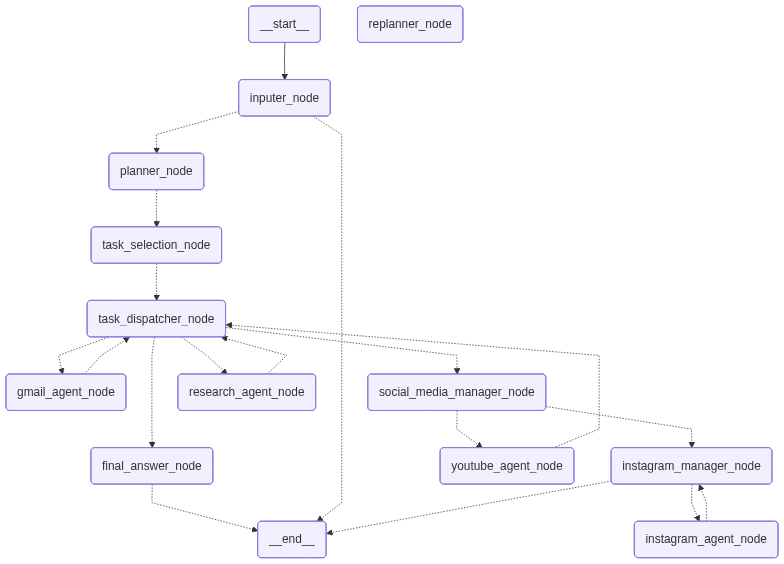
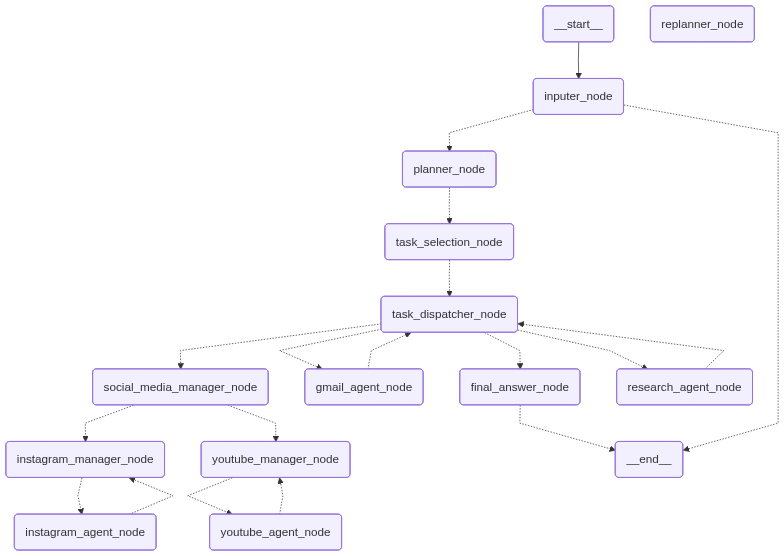
youtube tool and agent :WORKINg

diff --git a/chatagent/custom_graph.py b/chatagent/custom_graph.py
@@ -13,8 +13,9 @@ from chatagent.model.chat_agent_model import StreamChunk
 from chatagent.agents.supervisor_agent import make_supervisor_node
 from chatagent.agents.planner_agent import make_planner_node
 from chatagent.agents.social_media_manager.gmail.email_agent import gmail_agent_node
-from chatagent.agents.social_media_manager.youtube.youtube_agent import youtube_agent_node
 from chatagent.agents.social_media_manager.instagram.instagram_agent import instagram_agent_node
+# Import the new youtube agent
+from chatagent.agents.social_media_manager.youtube.youtube_agent import youtube_agent_node
 from chatagent.agents.research.research_agent import research_agent_node
 from chatagent.agents.final_node import final_answer_node
 from chatagent.node_registry import NodeRegistry
@@ -25,7 +26,6 @@ from chatagent.agents.task_selection import task_selection_node
 from chatagent.agents.task_dispatcher import task_dispatcher
 from langchain_core.runnables import RunnableConfig
 from langchain_core.prompts import ChatPromptTemplate
-from langchain_core.runnables import RunnableConfig
 from langgraph.types import Command
 from langchain_core.messages import SystemMessage, HumanMessage, AIMessage
 from typing import Literal, Optional
@@ -50,12 +50,11 @@ available_agents = {
         "Handles ALL tasks related to Gmail or Email. "
     ),
     "social_media_manager_node": (
-        "Handles ONLY Instagram-related tasks (posts, reels, insights, analytics, followers, profile, or messages). "
-        "It can handle youtube channel or youtube related tasks too"
-        "Tasks for Twitter/X, Facebook, WhatsApp, YouTube, and others are currently unsupported and must end with a clear explanation."
+        "Handles tasks related to social media platforms like Instagram and YouTube."
+        "Youtube channel details, video information, etc."
     ),
     "research_agent_node": (
-        "Handles ALL tasks related to searching or finding information from the internet. "
+        "it can only handle tasks related to searching, looking up, or finding information from the internet (e.g., LinkedIn, Google, web)."
     )
 }
 
@@ -80,6 +79,18 @@ instagram_manager_node = make_supervisor_node(
     prompt=PROMPTS.instagram_manager_node
 )
 
+# Create a new YouTube manager
+youtube_register = NodeRegistry()
+youtube_register.add("youtube_agent_node", youtube_agent_node, "agent", "Handles all tasks related to YouTube.")
+
+youtube_manager_node = make_supervisor_node(
+    llm=llm,
+    registry=youtube_register,
+    node_name="youtube_manager_node",
+    goto_end_symbol="social_media_manager_node",
+    prompt=PROMPTS.youtube_manager_node,
+)
+
 
 social_media_manager_registry = NodeRegistry()
 social_media_manager_registry.add(
@@ -88,12 +99,12 @@ social_media_manager_registry.add(
     "supervisor",
     PROMPTS.instagram_manager_node,
 )
-
+# Add the new YouTube manager to the social media supervisor
 social_media_manager_registry.add(
-    "youtube_agent_node",
-    youtube_agent_node, 
-    "agent",
-    "Handle all tasks related to fetching YouTube OR YOUTUBE Channels"
+    "youtube_manager_node",
+    youtube_manager_node,
+    "supervisor",
+    PROMPTS.youtube_manager_node,
 )
 
 
@@ -111,7 +122,6 @@ main_register.add(
     "supervisor",
     PROMPTS.social_media_manager_node,
 )
-
 main_register.add(
     "gmail_agent_node",
     gmail_agent_node,
@@ -141,11 +151,7 @@ graph_builder.add_node("social_media_manager_node", social_media_manager_node)
 graph_builder.add_node("instagram_manager_node", instagram_manager_node)
 graph_builder.add_node("instagram_agent_node", instagram_agent_node)
 graph_builder.add_node("research_agent_node", research_agent_node)
-graph_builder.add_node("youtube_agent_node", youtube_agent_node) 
+# Add the new youtube nodes
+graph_builder.add_node("youtube_manager_node", youtube_manager_node)
+graph_builder.add_node("youtube_agent_node", youtube_agent_node)
 graph_builder.add_edge(START, "inputer_node")
-
-
-# png_data = graph_builder.get_graph().draw_mermaid_png()
-# with open("graph.png", "wb") as f:
-#     f.write(png_data)
-# print("Graph saved to graph1.png")

diff --git a/chatagent/agents/social_media_manager/youtube/youtube_agent.py b/chatagent/agents/social_media_manager/youtube/youtube_agent.py
@@ -1,55 +1,53 @@
-from langchain_core.tools import tool
-from chatagent.agents.social_media_manager.youtube.youtube_api import get_channel_details
-import asyncio
-from typing import Annotated, Optional
-from langgraph.prebuilt import InjectedState
-from chatagent.utils import State
 from chatagent.node_registry import NodeRegistry
-from langchain_core.messages import SystemMessage, HumanMessage
 from langchain_core.tools import tool
-from langgraph.types import interrupt
 from pydantic import BaseModel, Field
 from chatagent.config.init import llm
-from chatagent.utils import usages, log_tool_event
 from chatagent.agents.create_agent_tool import make_agent_tool_node
-from langchain_community.callbacks import get_openai_callback
-from google.oauth2.credentials import Credentials
-from googleapiclient.discovery import build
-from supabase_client import supabase
-from google.oauth2.credentials import Credentials
-from googleapiclient.discovery import build
+from chatagent.utils import log_tool_event
+from langgraph.types import interrupt
 from chatagent.model.tool_output import ToolOutput
-from dotenv import load_dotenv
 from langchain_core.runnables import RunnableConfig
 from chatagent.utils import get_user_id
-import os
+from chatagent.agents.social_media_manager.youtube.youtube_api import get_channel_details
 
+class YouTubeChannelDetailsInput(BaseModel):
+    """Input schema for fetching YouTube channel details."""
+    channel_name: str = Field(..., description="The name of the YouTube channel to fetch details for.")
 
-@tool("youtube_channel_details")
-async def youtube_channel_details(user_id: str) -> str:
-    """
-    Fetches details for the user's connected YouTube channel, including snippet and statistics.
-    This tool should be used when the user asks for their YouTube channel information, stats, or details.
-    The user_id must be the provider_id from the database.
-    """
-    if not user_id:
-        return "Error: A user_id must be provided to fetch YouTube channel details."
-        
-    details = await get_channel_details(user_id)
-    return f"Successfully fetched YouTube channel details: {details}"
+@tool("fetch_youtube_channel_details", args_schema=YouTubeChannelDetailsInput)
+async def fetch_youtube_channel_details(channel_name: str, config: RunnableConfig):
+    """Fetches details for a given YouTube channel."""
+    user_id = get_user_id(config)
+    log_tool_event(
+        tool_name="fetch_youtube_channel_details",
+        status="started",
+        params={"channel_name": channel_name},
+        parent_node="youtube_agent_node",
+    )
+    data = await get_channel_details(user_id)
+    print("\n\n\n\n")
+    print("Fetched YouTube Channel Details:", data )
+    print("\n\n\n\n")
+    tool_output = ToolOutput(output=data, show=True, type="json")
+    log_tool_event(
+        tool_name="fetch_youtube_channel_details",
+        status="success",
+        params={"channel_name": channel_name},
+        parent_node="youtube_agent_node",
+        tool_output=tool_output,
+    )
+    return tool_output
 
-
-yt_tool_register = NodeRegistry()
-yt_tool_register.add("youtube_channel_details", youtube_channel_details, "tool")
-
+youtube_tool_register = NodeRegistry()
+youtube_tool_register.add("fetch_youtube_channel_details", fetch_youtube_channel_details, "tool")
 
 youtube_agent_node = make_agent_tool_node(
     llm=llm,
-    members=yt_tool_register,
+    members=youtube_tool_register,
     prompt=(
-        "You are a YouTube Manager Agent.\n"
-        "Your responsibility is to handle ONLY tasks related to fetching YouTube channel details.\n"
+        "You are a YouTube agent. You can fetch channel details. "
+        "Choose the correct tool based on the user request."
     ),
     node_name="youtube_agent_node",
-    parent_node="task_dispatcher_node",
+    parent_node="youtube_manager_node",
 )

diff --git a/chatagent/prompt/node_prompt.py b/chatagent/prompt/node_prompt.py
@@ -1,6 +1,5 @@
 from dataclasses import dataclass
 
-
 @dataclass(frozen=True)
 class PROMPTS:
     instagram_manager_node: str = (
@@ -13,24 +12,14 @@ class PROMPTS:
         "3. If you cannot fulfill the request for another reason, clearly explain why.\n"
         "4. After completing or failing the task, END the task.")
 
-    youtube_manager_node: str = (
-        "You are a YouTube Manager Agent.\n"
-        "Your responsibility is to handle ONLY tasks related to fetching YouTube channel details.\n"
-        "Rules:\n"
-        "1. If the user asks for their YouTube channel information, stats, or details, use the youtube channel details tool.\n"
-        "2. If an authentication error occurs, instruct the user to authenticate or connect their YouTube account.\n"
-        "3. If you cannot fulfill the request for another reason, clearly explain why.\n"
-        "4. After completing or failing the task, END the task.")
-
     social_media_manager_node: str = (
-        "You are a Social Media Manager Agent responsible for Instagram and YouTube.\n"
-        "Your responsibility is to handle tasks related to Instagram and YouTube.\n"
-        "For Instagram, you can manage posts, reels, insights, analytics, followers, profile, or messages.\n"
-        "For YouTube, you are currently limited to fetching channel details.\n"
+        "You are a Social Media Manager Agent.\n"
+        "Your responsibility is to handle tasks strictly related to social media platforms like Instagram and YouTube."
+        "Tasks for other platforms like Twitter/X, Facebook, and WhatsApp are currently unsupported.\n"
         "Rules:\n"
-        "1. Perform the requested Instagram or YouTube-related action or provide the requested data.\n"
+        "1. Perform the requested social media-related action or provide the requested data.\n"
         "2. If authentication is missing, instruct the user to authenticate the required account.\n"
-        "3. If a task is for an unsupported platform (e.g., Twitter/X, Facebook), you must escalate back or END with a clear explanation that it is unsupported.\n"
+        "3. If a task for an unsupported platform is requested, you must escalate back or END with a clear explanation.\n"
         "4. After completing or failing the task, END the task.")
 
     gmail_manager_node: str = (
@@ -42,3 +31,12 @@ class PROMPTS:
         "2. If data cannot be retrieved, explain the exact reason clearly.\n"
         "3. If authentication is missing, instruct the user to connect or re-authenticate Gmail.\n"
         "4. After completing or failing the task, END the task.")
+
+    youtube_manager_node: str = (
+        "You are a YouTube Manager Agent.\n"
+        "Your responsibility is to handle ANY task related to YouTube "
+        "(channel details, video information, etc.).\n"
+        "Rules:\n"
+        "1. Always handle the task without asking for unnecessary details.\n"
+        "2. If you cannot fulfill the request, clearly explain why.\n"
+        "3. After completing or failing the task, END the task.")

diff --git a/chatagent/db/database_manager.py b/chatagent/db/database_manager.py
@@ -7,8 +7,8 @@ from fastapi import Request
 import logging
 
 # Set up logging
-logging.basicConfig(level=logging.DEBUG)
-logger = logging.getLogger(__name__)
+# logging.basicConfig(level=logging.DEBUG)
+# logger = logging.getLogger(__name__)
 
 class DatabaseManager:
     _pool: AsyncConnectionPool = None
@@ -18,20 +18,20 @@ class DatabaseManager:
         if cls._pool is None:
             if request:
                 cls._pool = request.app.state.pool
-                logger.debug("Using existing pool from request state")
+                # logger.debug("Using existing pool from request state")
             else:
                 # Log settings values to confirm
-                logger.debug(f"Settings: PSQL_HOST={settings.PSQL_HOST}, "
-                            f"PSQL_USERNAME={settings.PSQL_USERNAME}, "
-                            f"PSQL_PORT={settings.PSQL_PORT}, "
-                            f"PSQL_DATABASE={settings.PSQL_DATABASE}, "
-                            f"PSQL_SSLMODE={settings.PSQL_SSLMODE}")
+                # logger.debug(f"Settings: PSQL_HOST={settings.PSQL_HOST}, "
+                #             f"PSQL_USERNAME={settings.PSQL_USERNAME}, "
+                #             f"PSQL_PORT={settings.PSQL_PORT}, "
+                #             f"PSQL_DATABASE={settings.PSQL_DATABASE}, "
+                #             f"PSQL_SSLMODE={settings.PSQL_SSLMODE}")
                 conninfo = (
                     f"postgres://{settings.PSQL_USERNAME}:{settings.PSQL_PASSWORD}"
                     f"@{settings.PSQL_HOST}:{settings.PSQL_PORT}/{settings.PSQL_DATABASE}"
                     f"?sslmode={settings.PSQL_SSLMODE}"
                 )
-                logger.debug(f"Creating new pool with conninfo: {conninfo.replace(settings.PSQL_PASSWORD, '****')}")
+                # logger.debug(f"Creating new pool with conninfo: {conninfo.replace(settings.PSQL_PASSWORD, '****')}")
                 try:
                     cls._pool = AsyncConnectionPool(
                         conninfo=conninfo,
@@ -43,12 +43,12 @@ class DatabaseManager:
                         },
                     )
                     await cls._pool.open()  # Fix deprecation warning
-                    logger.debug("Connection pool opened successfully")
+                    # logger.debug("Connection pool opened successfully")
                     async with cls._pool.connection() as conn:
                         await register_vector_async(conn)
                         await conn.execute("CREATE EXTENSION IF NOT EXISTS vector")
-                        logger.debug("pgvector extension ensured")
+                        # logger.debug("pgvector extension ensured")
                 except Exception as e:
-                    logger.error(f"Failed to initialize connection pool: {e}")
+                    # logger.error(f"Failed to initialize connection pool: {e}")
                     raise
         return cls._pool

diff --git a/chatagent/agents/planner_agent.py b/chatagent/agents/planner_agent.py
@@ -54,8 +54,15 @@ def make_planner_node(
 
     def planner(state: State) -> Command[Literal["task_selection_node"]]:
 
+
+
         with get_openai_callback() as cb:
             message_content = f"info : {planner_prompt} and User Query : {state['input']}"
+
+            print("\n\n", "=" * 20, " Planner Node Invoked ", "=" * 20)
+            print("message_content:", message_content)
+            print("\n\n ")
+
             result: Plan = llm.with_structured_output(Plan).invoke([
                 HumanMessage(content=message_content)
             ])
